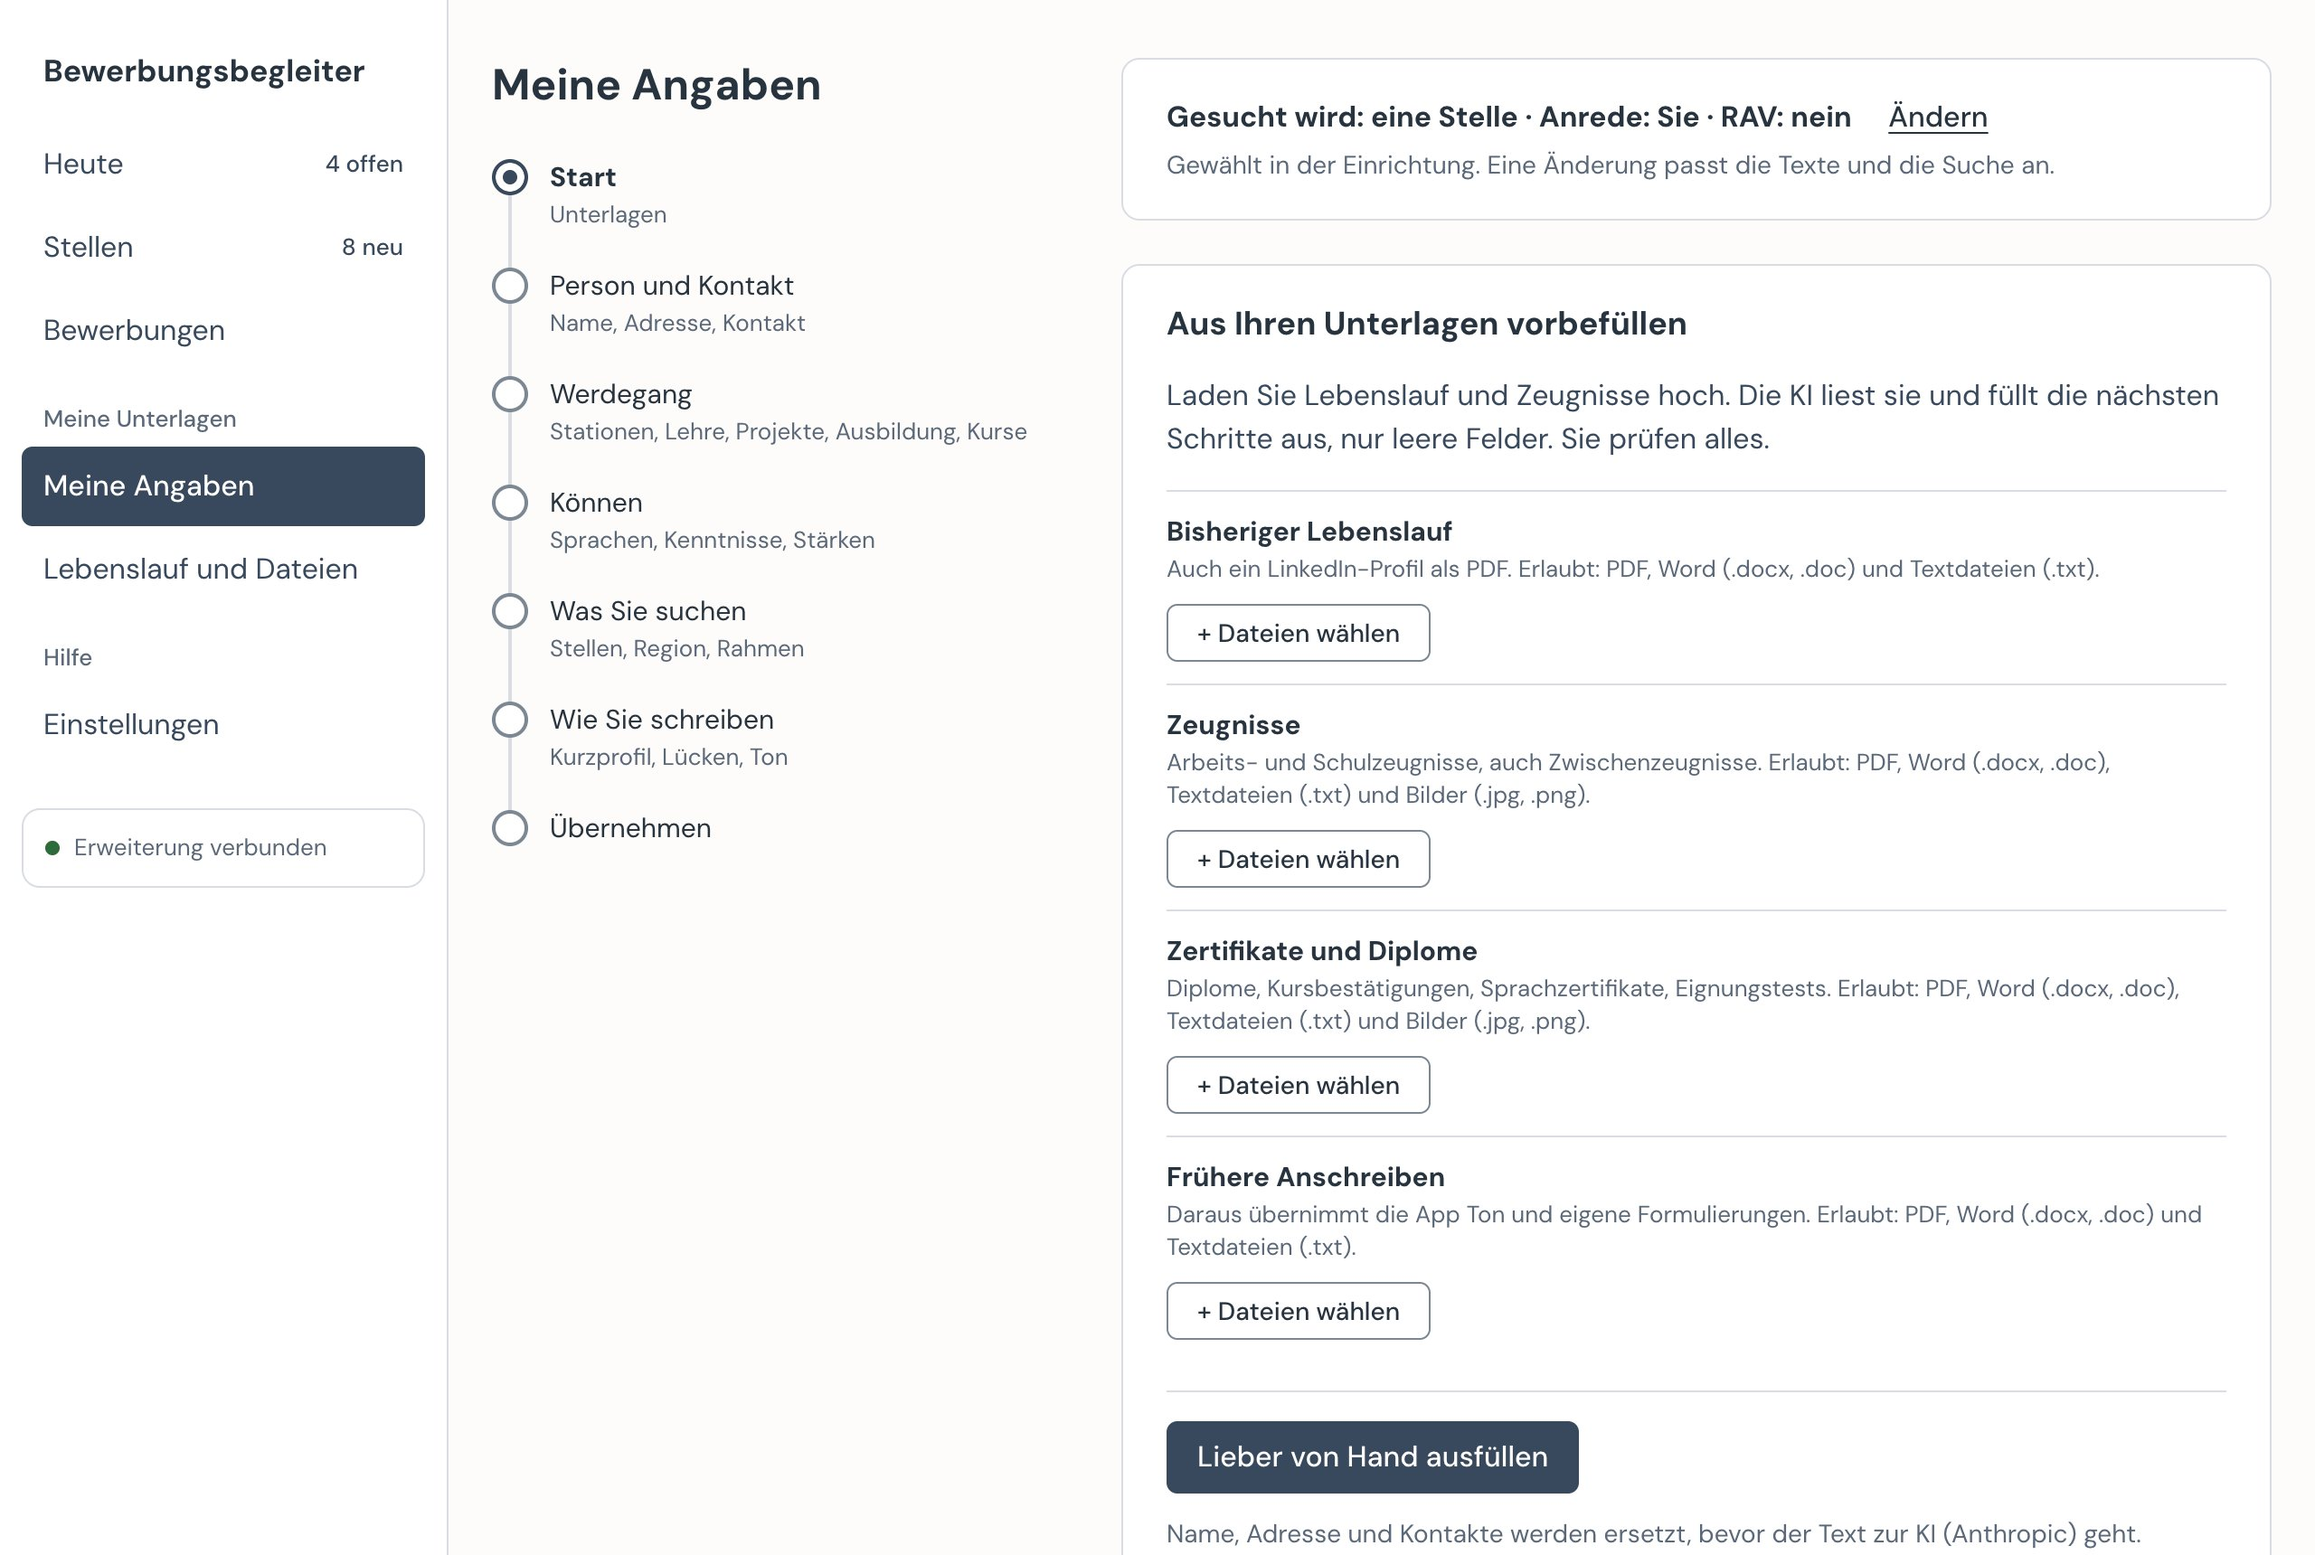
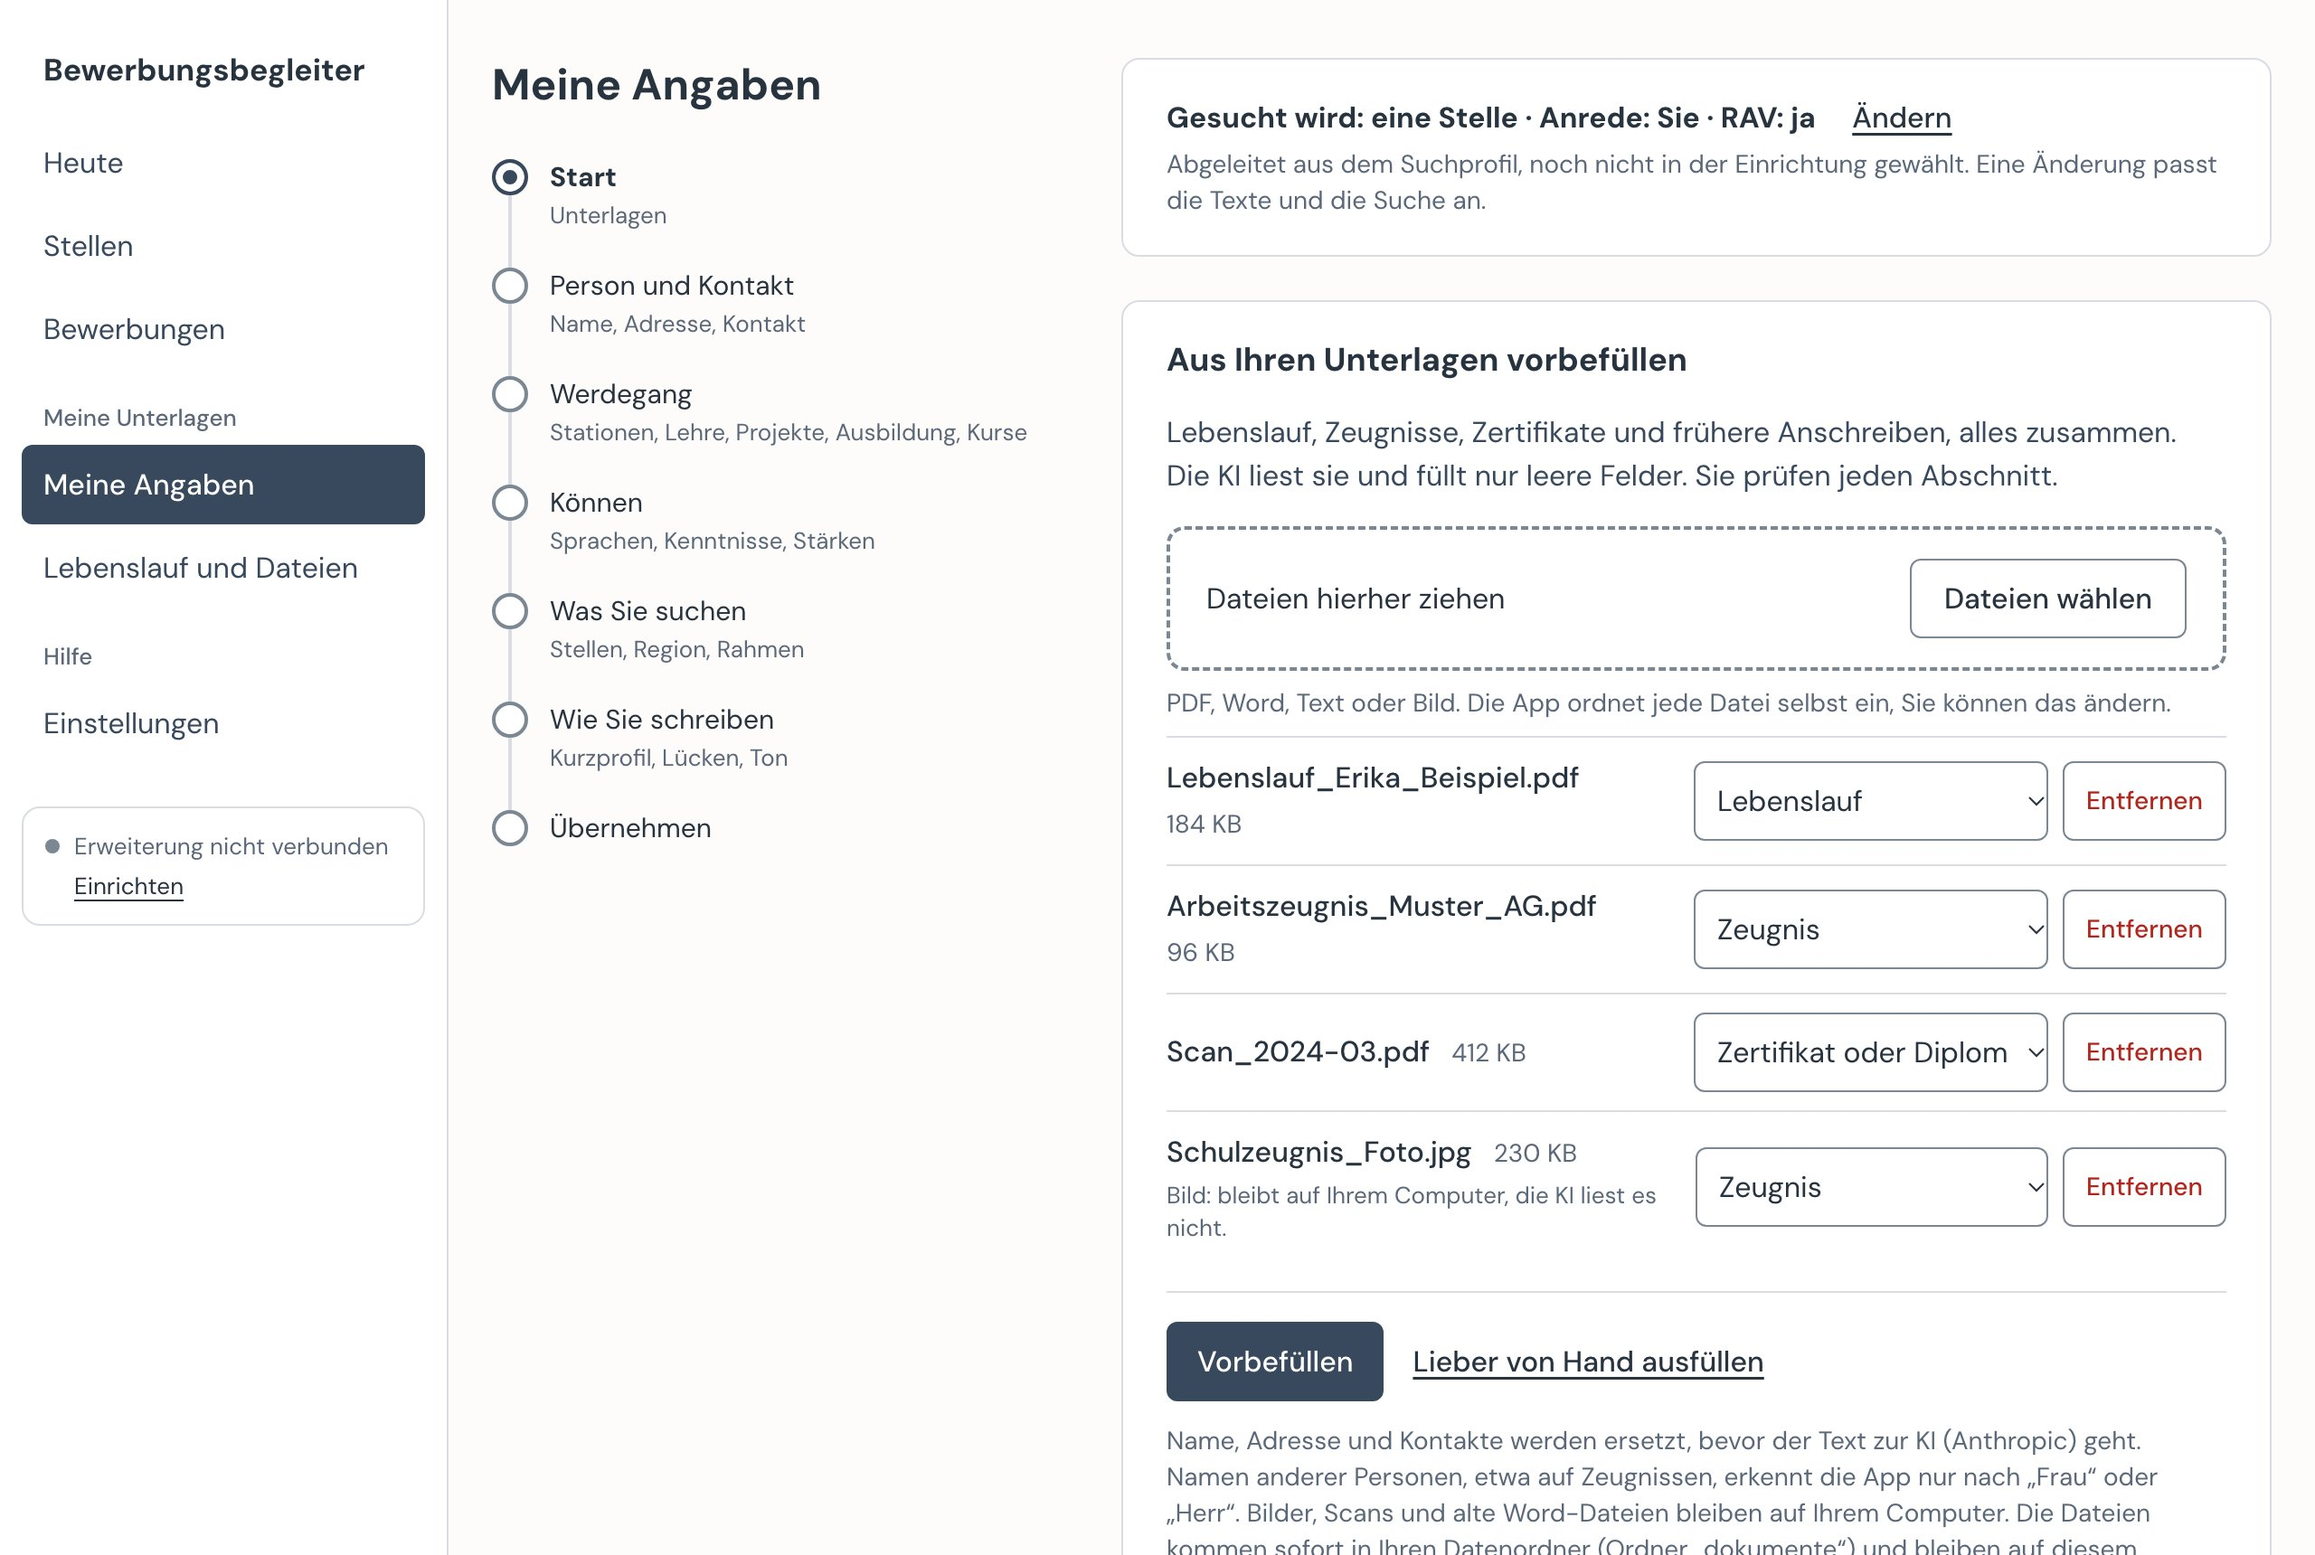
docs(guide): describe the one drop area, retake angaben [G84]
Pullboard-Item: #270

diff --git a/desktop/tests/test_guide_redesign.py b/desktop/tests/test_guide_redesign.py
@@ -36,6 +36,17 @@ def test_the_guide_names_the_pages_of_the_sidebar_and_no_menu_mehr():
     assert "Klicken Sie auf **Stellen**" in quick_step(4)
 
 
+def test_meine_angaben_takes_every_document_in_one_area_and_the_person_corrects_the_kind():
+    # G84, #270: the words of the page, so the guide matches what the person sees
+    for part in (quick_step(3), body("Angaben erfassen", 3)):
+        assert "**Dateien hierher ziehen**" in part and "**Dateien wählen**" in part
+        assert "Art" in part and "ändern" in part.lower()
+    entering = body("Angaben erfassen", 3)
+    for words in ("**Am Namen erkannt**", "**Nicht sicher erkannt, bitte prüfen**", "**Zeugnis**",
+                  "**Zertifikat oder Diplom**", "**Entfernen**", "ohne KI"):
+        assert words in entering, words
+
+
 def test_a_parent_or_legal_guardian_sets_the_app_up_for_a_child():
     guide = text()
     intro = guide.split("\n## ", 1)[0]
@@ -96,7 +107,9 @@ def test_lebenslauf_und_dateien_shows_the_kinds_zeugnis_diplom_zertifikat():
 def test_the_pictures_say_what_they_show_today():
     guide = text()
 
-    assert "Zeugnisse mit dem Hinweis Arbeits- und Schulzeugnisse, auch Zwischenzeugnisse](bilder/angaben.jpg)" in guide
+    # G84, #270: one drop area, each file with its kind to correct
+    assert "mit einer Fläche Dateien hierher ziehen und dem Knopf Dateien wählen" in guide
+    assert "jede mit ihrer Art zum Ändern und Entfernen" in guide and "](bilder/angaben.jpg)" in guide
     check = body("Stellen suchen und bewerben", 3)
     assert "](bilder/pruefung.jpg)" in check and "**So lassen**" in check
     picture = check.split("](bilder/pruefung.jpg)", 1)[0].rsplit("![", 1)[1]

diff --git a/docs/installation.md b/docs/installation.md
@@ -48,9 +48,9 @@ So kommen Sie von der Installation zur ersten Bewerbung. Jeder Schritt verweist 
 
    ![Schritt Erweiterung der Einrichtung mit dem Knopf Im Chrome Web Store hinzufügen, dem Link Im Edge-Store öffnen und dem Balken Wartet auf die Erweiterung](bilder/einrichtung-erweiterung.jpg)
 
-3. **Angaben erfassen.** Laden Sie unter **Meine Angaben** Ihren bisherigen Lebenslauf hoch und klicken Sie auf **Vorbefüllen**: Die KI füllt die nächsten Schritte aus, und Sie prüfen alles. Wo fast alle dasselbe antworten, steht schon eine Vorgabe. Zum Schluss klicken Sie auf **Angaben übernehmen**. Mehr unter [Angaben erfassen](#angaben-erfassen).
+3. **Angaben erfassen.** Ziehen Sie unter **Meine Angaben** Ihren bisherigen Lebenslauf, Zeugnisse, Zertifikate und frühere Anschreiben auf die Fläche **Dateien hierher ziehen**, oder klicken Sie auf **Dateien wählen**. Die App ordnet jede Datei selbst ein; stimmt die Art nicht, ändern Sie sie in der Zeile der Datei. Dann klicken Sie auf **Vorbefüllen**: Die KI füllt die nächsten Schritte aus, und Sie prüfen alles. Wo fast alle dasselbe antworten, steht schon eine Vorgabe. Zum Schluss klicken Sie auf **Angaben übernehmen**. Mehr unter [Angaben erfassen](#angaben-erfassen).
 
-   ![Seite Meine Angaben beim Start: die Schritte links, rechts die Felder zum Hochladen von bisherigem Lebenslauf, Zertifikaten und Diplomen und früheren Anschreiben, gleich nach dem Lebenslauf das Feld Zeugnisse mit dem Hinweis Arbeits- und Schulzeugnisse, auch Zwischenzeugnisse](bilder/angaben.jpg)
+   ![Seite Meine Angaben beim Start: die Schritte links, rechts die Karte Aus Ihren Unterlagen vorbefüllen mit einer Fläche Dateien hierher ziehen und dem Knopf Dateien wählen, darunter vier Dateien, jede mit ihrer Art zum Ändern und Entfernen: Lebenslauf, Zeugnis, Zertifikat oder Diplom und ein Zeugnis als Bild mit dem Hinweis, dass es auf dem Computer bleibt, darunter Vorbefüllen und Lieber von Hand ausfüllen](bilder/angaben.jpg)
 
 4. **Stellen suchen und eine wählen.** Klicken Sie auf **Stellen** und dann auf **Jetzt suchen**. Die Erweiterung sucht auf den Portalen, die KI schätzt jeden Treffer ein. Bei einer Stelle, die Ihnen gefällt, klicken Sie auf **Bewerbung vorbereiten**; die Bewerbung öffnet sich. Mehr unter [Stellen suchen und bewerben](#stellen-suchen-und-bewerben).
 
@@ -194,7 +194,7 @@ Du suchst eine Lehrstelle? Was bei dir anders ist, steht unter [Für Lehrstellen
 
 ### Angaben erfassen
 
-Unter **Meine Angaben** erfassen Sie Lebenslauf und Suchprofil, in etwa 20 Minuten. Vorhandene Unterlagen als PDF oder Word können Sie hochladen. Die KI macht daraus Vorschläge, und Sie prüfen jeden davon. Wo fast alle dasselbe antworten, steht schon eine Vorgabe, die Sie ändern können: Wohnort und Ort im Datum wie Ihr Ort, Pensum 80–100 %, Start nach Vereinbarung, beim Anschreiben jeweils die erste Wahl. Im letzten Schritt, **Übernehmen**, klicken Sie auf **Angaben übernehmen**. Erst danach zählen Ihre Angaben für die Suche.
+Unter **Meine Angaben** erfassen Sie Lebenslauf und Suchprofil, in etwa 20 Minuten. Vorhandene Unterlagen ziehen Sie alle zusammen auf die Fläche **Dateien hierher ziehen** oder wählen sie mit **Dateien wählen**: bisherigen Lebenslauf, Zeugnisse, Zertifikate und Diplome, frühere Anschreiben, als PDF, Word, Text oder Bild. Die App ordnet jede Datei nur nach ihrem Namen und Dateityp ein, ohne KI; jede Zeile sagt **Am Namen erkannt** oder **Nicht sicher erkannt, bitte prüfen**. Stimmt die Art nicht, wählen Sie in der Zeile die richtige, etwa **Zeugnis** statt **Zertifikat oder Diplom**; mit **Entfernen** nehmen Sie eine Datei wieder heraus. Bilder und alte Word-Dateien (.doc) bleiben auf Ihrem Computer, die KI liest sie nicht. Mit **Vorbefüllen** macht die KI aus den übrigen Vorschläge, und Sie prüfen jeden davon. Wo fast alle dasselbe antworten, steht schon eine Vorgabe, die Sie ändern können: Wohnort und Ort im Datum wie Ihr Ort, Pensum 80–100 %, Start nach Vereinbarung, beim Anschreiben jeweils die erste Wahl. Im letzten Schritt, **Übernehmen**, klicken Sie auf **Angaben übernehmen**. Erst danach zählen Ihre Angaben für die Suche.
 
 Ändern können Sie Ihre Angaben jederzeit an derselben Stelle. Die Seite zeigt dann Ihren bisherigen Lebenslauf. Was sie nicht anzeigt, zum Beispiel Ihr Foto, bleibt beim Übernehmen, wie es ist. So geht nichts verloren, was Sie schon verfeinert haben.
 
